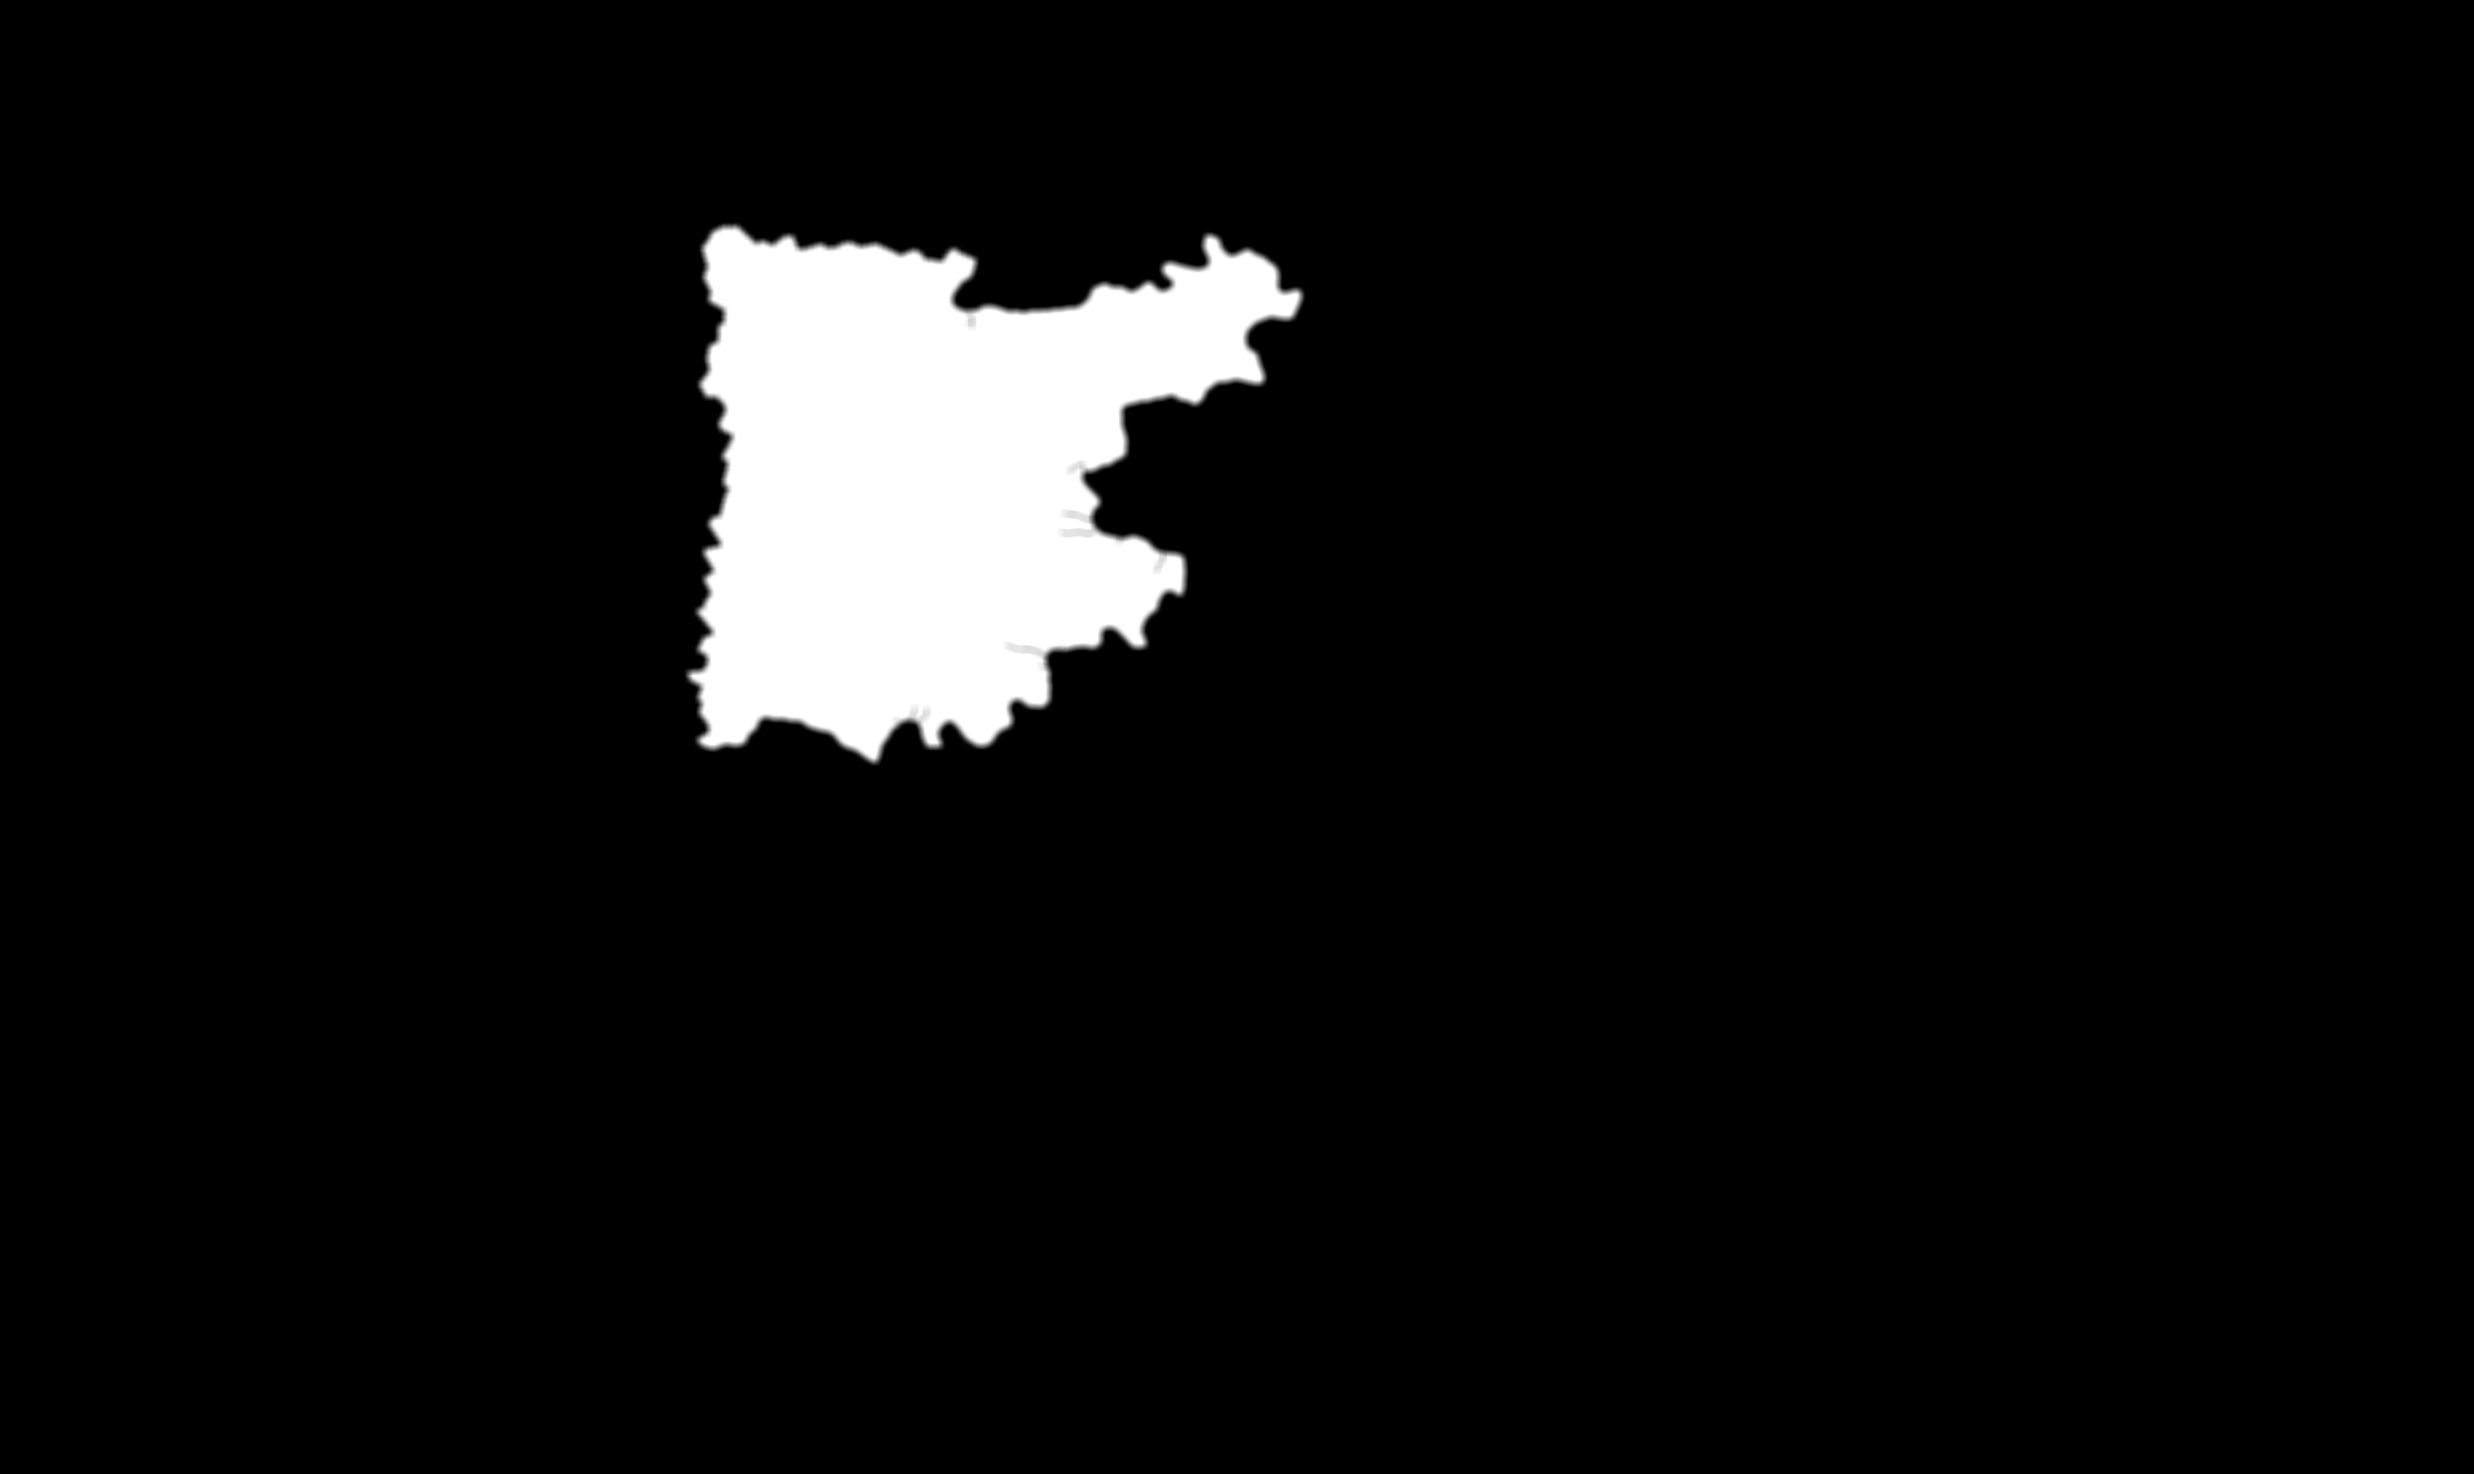
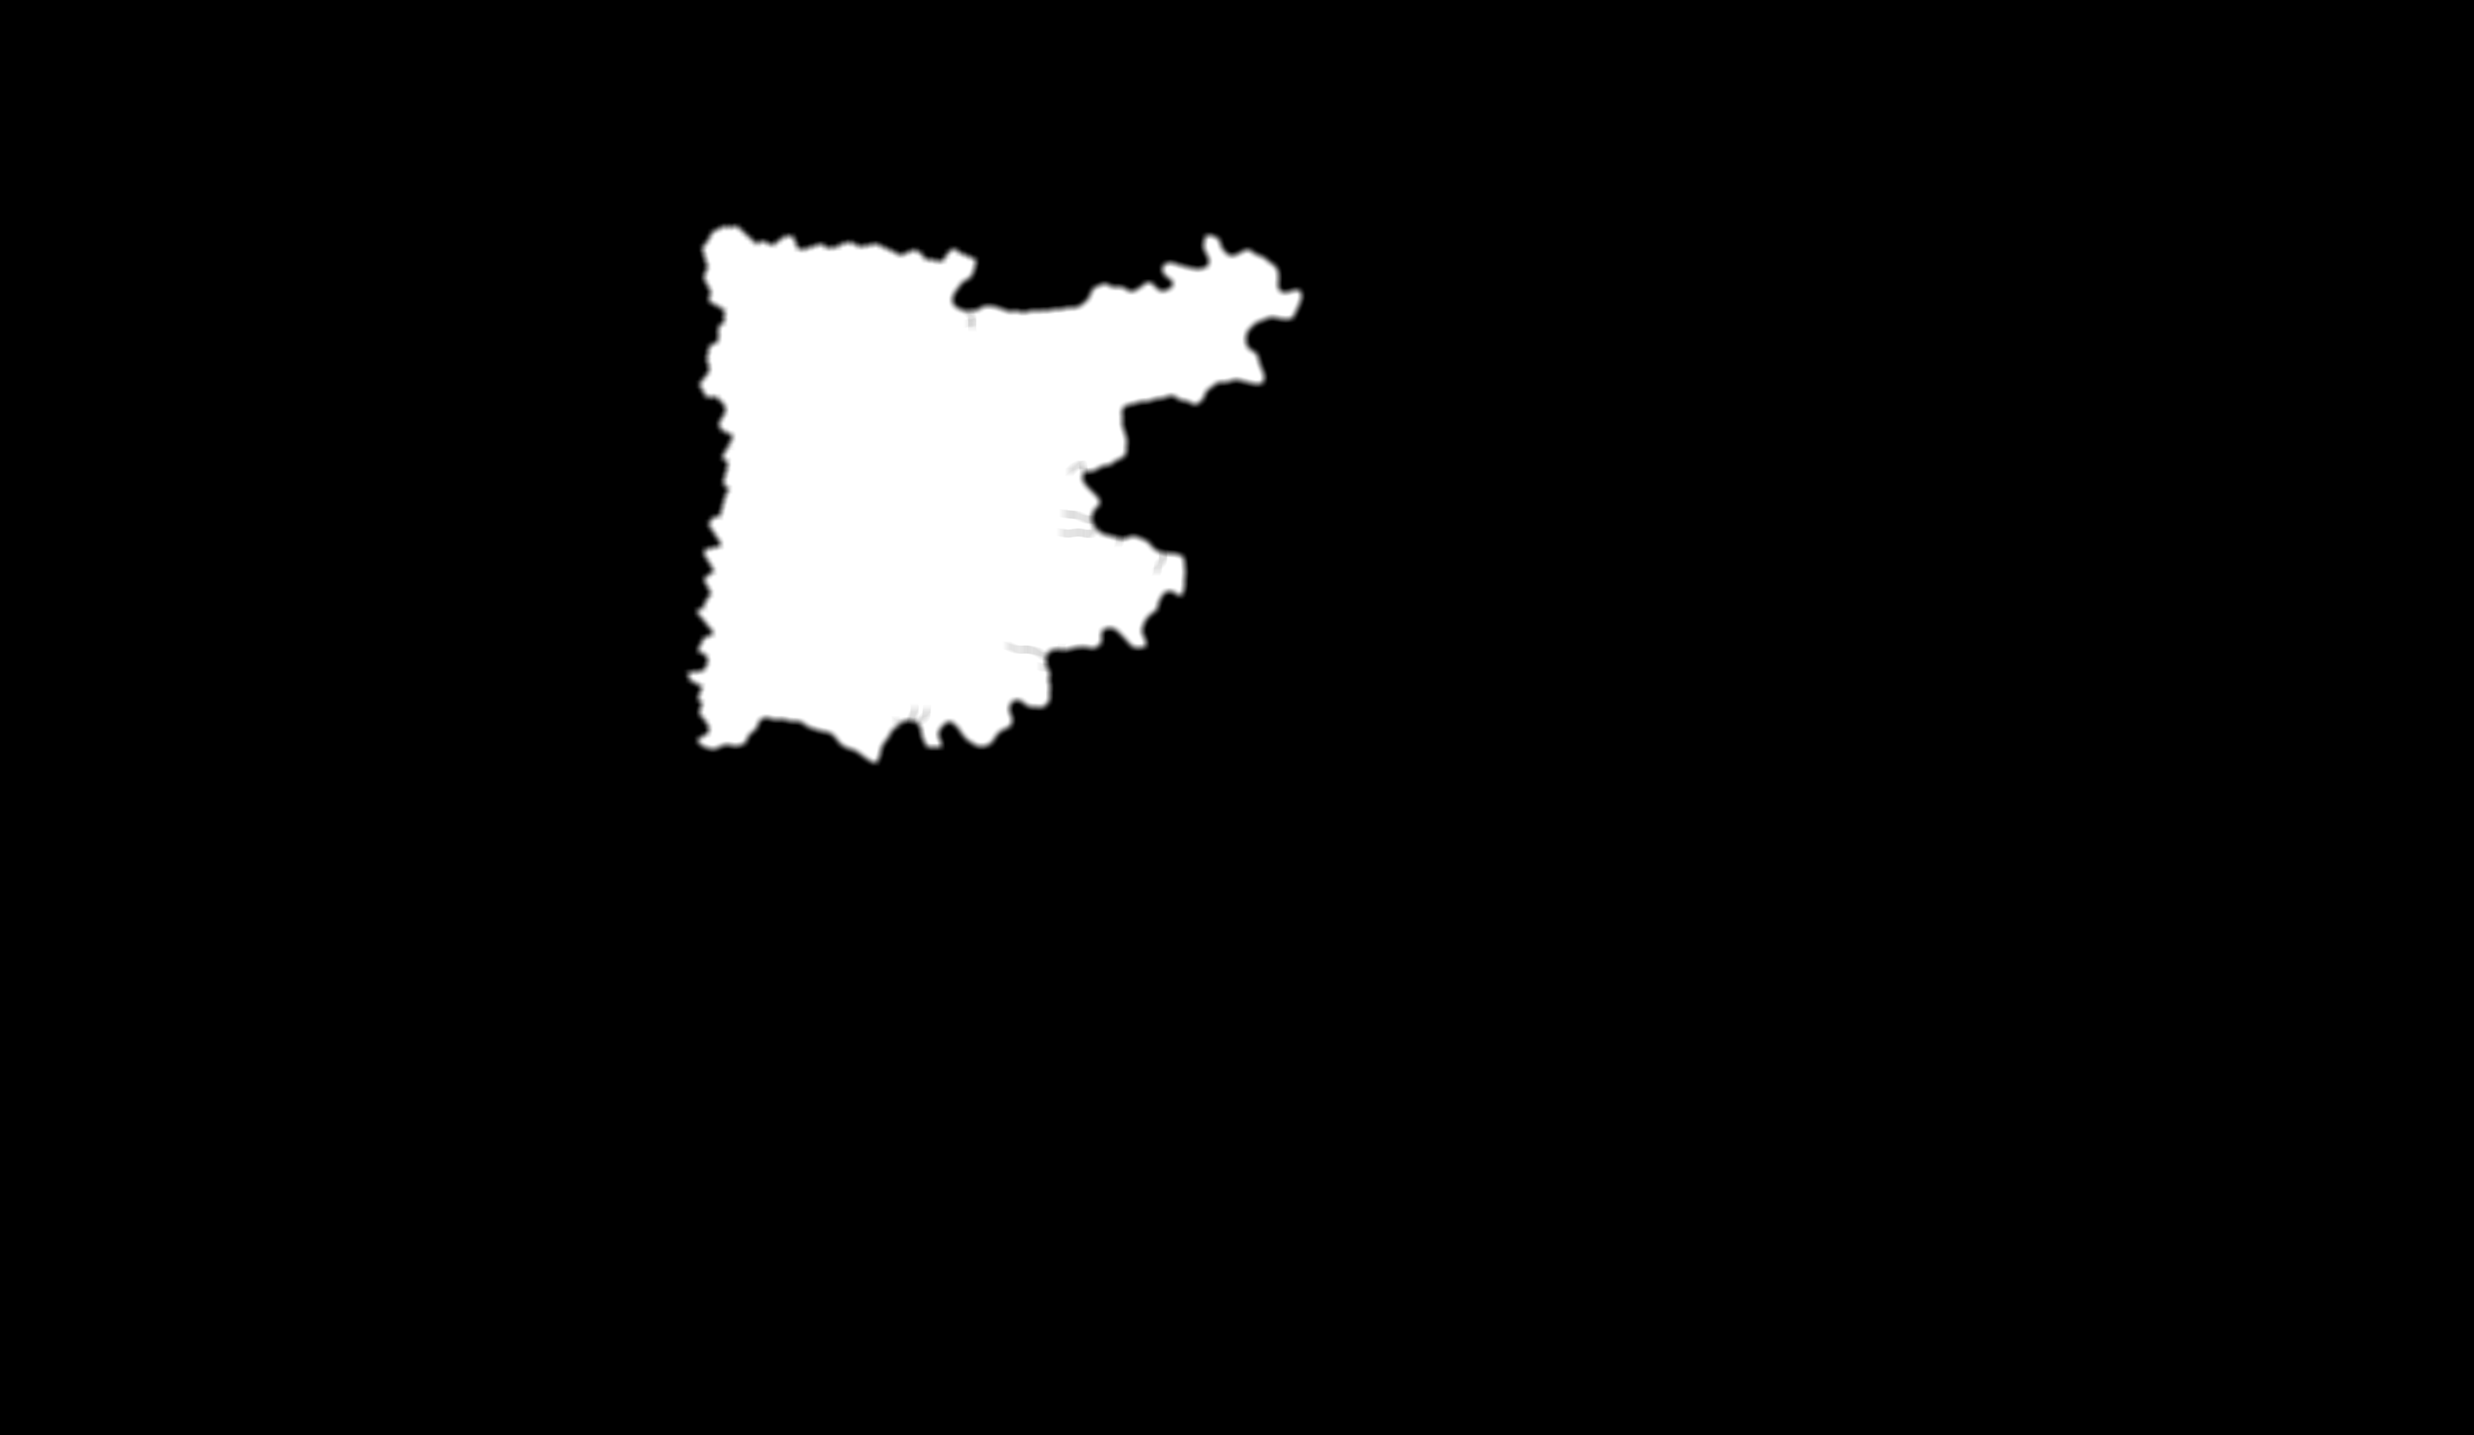
fix(light): country masks match the ancient map's shape
The ancient map is the old map with the bottom trimmed, so stretching both
to the board squashed the map against the masks, drifting up to a third of
a cell at the bottom. The masks are now cropped to the same shape.

Changed region(s): [[0.2812, 0.1552, 0.5312, 0.5276]]

diff --git a/tests/light/level.test.ts b/tests/light/level.test.ts
@@ -91,3 +91,13 @@ test('the marking art matches its box', async () => {
   expect((width! / 1674) * 25).toBeCloseTo(level.mark.width, 1);
   expect((height! / 971) * 15).toBeCloseTo(level.mark.height, 1);
 });
+
+// The board stretches the map and every country mask to the same 25×15 box, so
+// they only line up if they share the ancient map's shape.
+test('the country masks have the ancient map’s shape', async () => {
+  const map = await sharp(path.resolve('static/light/assets/map-ancient.jpg')).metadata();
+  for (const name of ['dhruv', 'galatea', 'samitra', 'volund', 'radiant']) {
+    const mask = await sharp(path.resolve(`static/light/assets/mask-${name}.png`)).metadata();
+    expect(mask.height! / mask.width!, name).toBeCloseTo(map.height! / map.width!, 3);
+  }
+});

diff --git a/docs/superpowers/specs/2026-11-19-light-ancient-map-design.md b/docs/superpowers/specs/2026-11-19-light-ancient-map-design.md
@@ -46,7 +46,7 @@ marking that appears on the table, showing the party where the story goes next.
 ## Non-goals
 
 - No change to the puzzle itself: same slots, pillars, solution and mirror count.
-- No regeneration of the country masks.
+- The country masks are rebuilt only to crop them to the ancient map's shape (it is the old map with the bottom ~2.6% trimmed); their outlines are unchanged.
 
 ## Left to the builder
 
